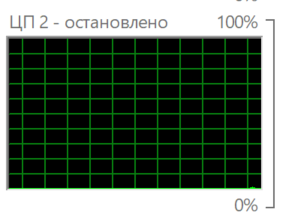
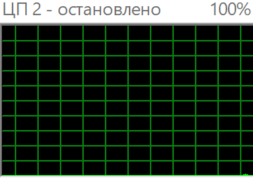
generally ready block of measures

diff --git a/README.md b/README.md
@@ -15,17 +15,19 @@
 ### Подготовка среды
 - Все измерения проводились в контролируемых условиях для обеспечения воспроизводимости
 
-- Процесс (и выполняющий его поток) фиксировались на одном ядре CPU:
+- Процесс фиксировался на одном ядре CPU (включая выполняющий поток):
 ```C
 SetProcessAffinityMask(GetCurrentProcess(), 1 << 2);
-SetThreadAffinityMask (GetCurrentThread(),  1 << 2);
+SetThreadAffinityMask(GetCurrentThread(), 1 << 2);
 ```
-- Использовалось наименее загруженное ядро:
-![alt text](images/core2Use.png)
+- Использовалось наименее загруженное ядро (ядро 0 не рассматривалось, так как активно используется системой):
 
-- Учитывалось влияние SMT (Hyper-Threading) — проверялась загрузка парного логического ядра (того же физического).
+- Учитывалось влияние SMT (Hyper-Threading) — проверялась загрузка парного логического ядра (того же физического)
 
-![alt text](images/core3Use.png)
+<p align="center">
+  <img src="images/core2Use.png" width="45%"/>
+  <img src="images/core3Use.png" width="45%"/>
+</p>
 
 - Для процесса и потока устанавливался максимальный приоритет:
 ```C
@@ -46,73 +48,68 @@ SetThreadPriority(GetCurrentThread(), THREAD_PRIORITY_HIGHEST);
 ### Параметры системы
 - Устройство: ноутбук с процессором **AMD Ryzen 7 8845H**
 - Питание: от сети
-- Температура: t = $\sim 34^\circ$ (по встроенному графическому адаптеру)
-- Частота CPU: 2.31-2.42 ГГц.  
-![alt text](image-7.png)
+- Температура: ~34 °C (по встроенному графическому адаптеру)
+- Частота CPU: 2.31–2.42 ГГц
 
-### Выполнение измерений
-#### Ускоренная версия
-- Для того, чтобы "холодный запуск" , а также погрешность вносимая случайными факторами была минимальна измерения проведены **50 раз**. Одно измерение включает в себя проведение всех необходимых вычислений для построения в окне 800*600 пикселей множества Манедльброта с максимальным число итераций для одной точки **256**. За одно измерение происходит вычисление для **1000 кадров**.
-- Проводилось измерение именно скорости вычислений. Для этого во время теста множество не визуализировалось. Также результаты не сохранялись в память. 
-- Компиляция производилась с опцией -O3. Чтобы компилятор не удалил весь блок с вычислений в связи с отсутствием побочных эффектов в код была добавлена "обманка" не позволяющая компилятору произвести подобную оптимизацию:
+<p align="center">
+  <img src="images/sysCond.png" width="85%"/>
+</p>
+
+### Проведение измерений
+#### Итог
+
+Оптимизированная версия (SIMD / AVX512) показывает ускорение:
+
+> **≈ 14.2× быстрее базовой реализации**
+
+---
+
+#### Условия измерений
+
+Условия соответствуют описанным в предыдущем разделе:
+
+- Количество запусков: **50** (для снижения влияния случайных факторов)
+- Разрешение: **800×600**
+- Максимальное число итераций: **256**
+- 1000 кадров на одно измерение
+- Визуализация и сохранение результатов отключены (измеряется только время вычислений)
+- Компиляция: **-O3**
+
+Для предотвращения удаления вычислений компилятором (из-за отсутствия побочных эффектов) использовалась «заглушка»:
+
 ```C
 asm volatile("" :: "v"(exitIndexes));
 ```
-Эта инструкция не добавляет в машинный код никаких инструкций, а следовательно не влияет на результаты измерений. Т.к. блок объявлен с директивой `volatile` компилятор не может удалить или переместить. И т.к. он для компилятора представляется зависимым от результатов вычислений, поэтому блок кода с ними не удаляется. 
+Эта инструкция не генерирует машинный код, но препятствует удалению вычислительного блока компилятором.
 
-- Измерялось время при помощи высокоточной функции `QueryPerformanceCounter` <windows.h>. Точность до микросекунд(даже наносекунд) достигается за счёт использования ею аппаратного счетчика **TSP** процессора. Для перевода в секунды полученного значения используется частота счетчика полученная при помощи `QueryPerformanceFrequency`. Частота постоянна для каждого запуска системы.
+#### Метод измерения
 
-- Загрузка ядра во время измерения: 
-![alt text](images/duringTestCPU.png)
-- таблица с результатами проведенных измерений:
-$$
-\begin{array}{|c|c|c|}
-\hline
-\text{Номер теста} & \text{время, с} & \text{погрешность, с}  & \text{$\xi$ (\%)} \\ \hline
-1 & 11.69 & 0.00 & 0.00  \\ \hline
-2 & 11.68 & 0.01 & 0.086 \\ \hline
-3 & 11.67 & 0.02 & 0.171 \\ \hline
-4 & 11.65 & 0.04 & 0.343 \\ \hline
-5 & 11.65 & 0.04 & 0.343 \\ \hline
-\vdots & \vdots & \vdots & \vdots \\ \hline
-50 & 11.67 & 0.02 & 0.171 \\ \hline
-\text{Среднее:} & 11.69 & 0.02 & 0.171 \\ \hline
-\end{array}
-$$
-- Анализ полученной погрешности показывает, что влияние случайных факторов было в значительной степени нивелировано, ведь погрешность составила всего **0.171%**.
+Измерение времени выполнялось с использованием функции `QueryPerformanceCounter` из `<windows.h>`.
+
+Функция основана на аппаратном счётчике **TSC (Time Stamp Counter)** и обеспечивает высокую точность измерений (до микросекунд и ниже).
+Для перевода значений в секунды использовалась `QueryPerformanceFrequency`.
+
+### Результаты
+#### SIMD (AVX512) версия
+- Среднее время выполнения: 11.69 с
+- Абсолютная погрешность: 0.02 с
+- Относительная погрешность: 0.171%
+
 #### Базовая версия
-В этих же условиях были проведены измерения для самой начальной версии с просчетом по отдельности каждого пикселя(функция `basicVersionCalculations`).
-$$
-\begin{array}{|c|c|c|c|}
-\hline
-\text{Номер теста} & \text{время, с} & \text{погрешность, с} & \xi \text{ (\%)} \\ \hline
-1  & 165.48 & 0.16 & 0.097 \\ \hline
-2  & 165.51 & 0.13 & 0.079 \\ \hline
-3  & 165.48 & 0.16 & 0.097 \\ \hline
-4  & 165.49 & 0.15 & 0.091 \\ \hline
-5  & 165.49 & 0.15 & 0.091 \\ \hline
-6  & 165.61 & 0.03 & 0.018 \\ \hline
-7  & 165.82 & 0.18 & 0.109 \\ \hline
-8  & 165.80 & 0.16 & 0.097 \\ \hline
-9  & 165.85 & 0.21 & 0.127 \\ \hline
-10 & 165.83 & 0.19 & 0.115 \\ \hline
-\text{Среднее:} & 165.64 & 0.15 & 0.091 \\ \hline
-\end{array}
-$$
+- Среднее время выполнения: 165.64 с
+- Абсолютная погрешность: 0.15 с
+- Относительная погрешность: 0.091%
 
-Было проведено 10 измерений и даже при этом вышла погрешность всего 0,0.091%, что позволяет говорить о релевантности полученных данных. 
+### Сравнение 
 
+| Метрика                      | SIMD версия | Базовая версия |
+|:-----------------------------|:-----------:|:--------------:|
+| Среднее время (с)            | 11.69       | 165.64         |
+| Ускорение                    | **×14.17**  | —              |
+| Относительная погрешность (%)| 0.171       | 0.091          |
 
-#### Сравнение полученных результатов
-$$
-\begin{array}{|l|c|c|c|}
-\hline
-\text{Параметр сравнения} & \text{ускоренная версия} & \text{базовая версия} & \text{Различие} \\ \hline
-\text{Среднее время, с} & 11.69 & 165.64 & 14.17 \\ \hline
-\text{Средняя абс. погрешность, с} & 0.02 & 0.15 & +0.13 \\ \hline
-\text{Относит. погрешность } \xi \text{ (\%)} & 0.171\% & 0.091\% & -0.080\% \\ \hline
-\end{array}
-$$
+### Вывод
 
-### Вывод 
-Было достигнуто ускорение в 14.17 $\pm$ 0.13 раз, что является отличным результатом.
+Использование SIMD-инструкций (AVX512) позволило добиться значительного ускорения вычислений (более чем в 14 раз) при сохранении высокой стабильности результатов.
+
+Низкая относительная погрешность (< 0.2%) подтверждает, что влияние случайных факторов было эффективно минимизировано.
